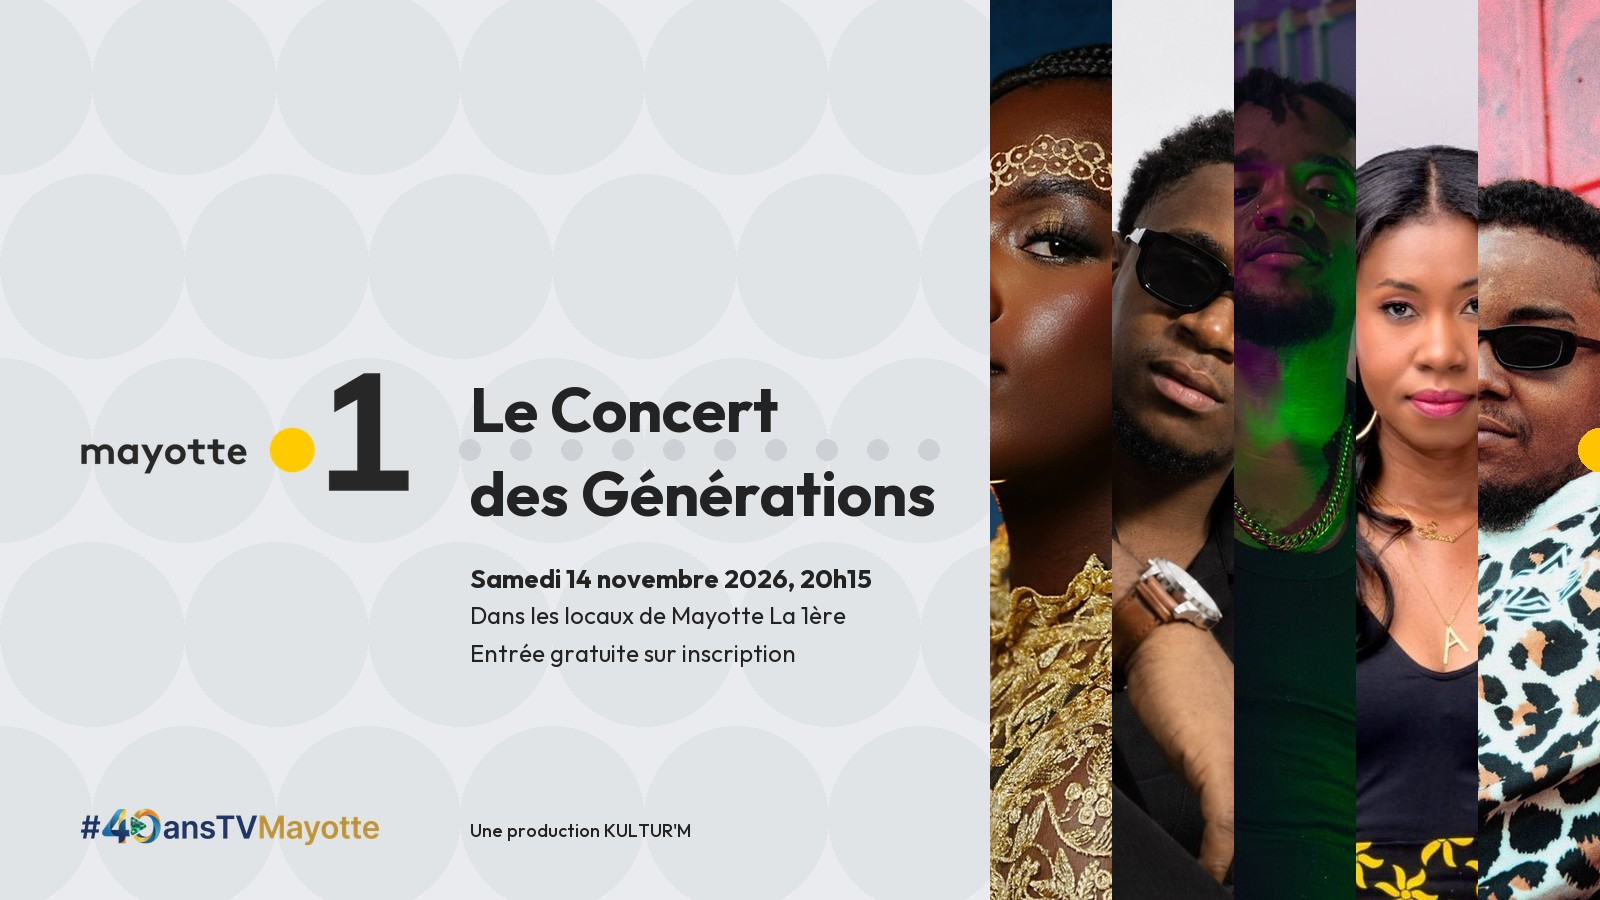
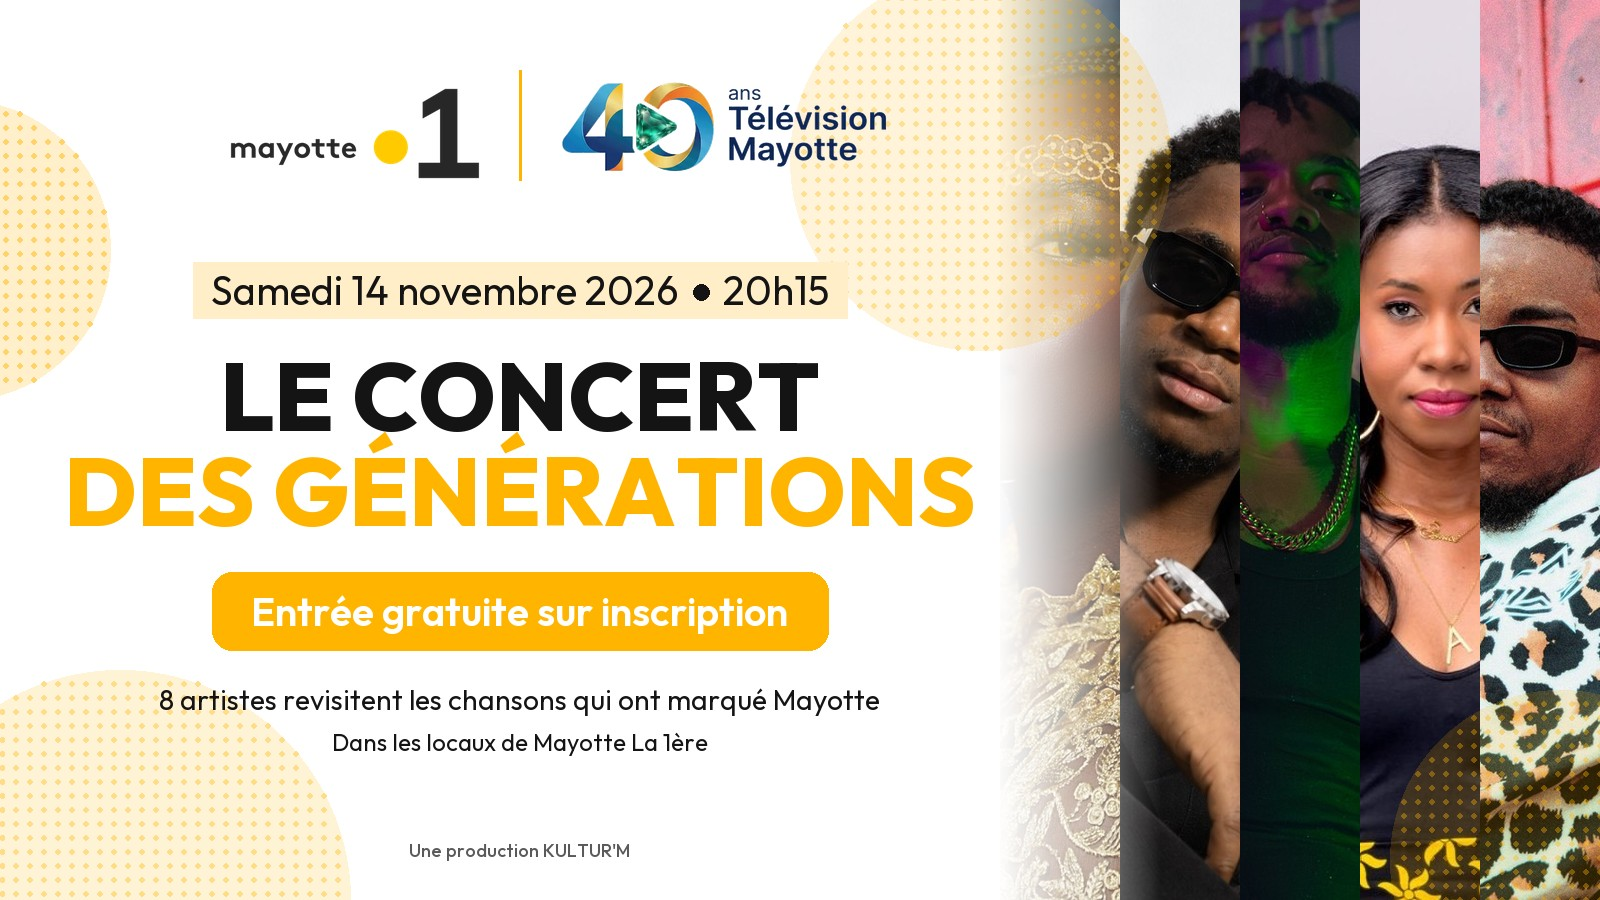
clients(mayotte-la-1ere): couverture du concert dans le style de l'affiche JPO

diff --git a/clients/mayotte-la-1ere/design/concert-couverture.py b/clients/mayotte-la-1ere/design/concert-couverture.py
@@ -1,45 +1,66 @@
 import sys, glob
-from PIL import Image, ImageDraw, ImageFont
+from PIL import Image, ImageDraw, ImageFont, ImageFilter, ImageChops
 S = sys.argv[1]; T = S + "/ftv/"; I = S + "/img/"
-W, H = 1600, 900; LINE = 450
-INK, GREY, LIGHT, YEL = (35, 35, 35), (205, 208, 212), (233, 235, 238), (255, 195, 0)
+W, H = 1600, 900
+INK, YEL, WHITE = (20, 20, 20), (255, 180, 0), (255, 255, 255)
 def font(s, w):
     f = ImageFont.truetype(T + "Outfit.ttf", s); f.set_variation_by_axes([w]); return f
-img = Image.new("RGB", (W, H), LIGHT); d = ImageDraw.Draw(img)
-# motif : frise de grands cercles, comme la bannière de la chaîne
-R = 92
-for row in range(-1, 6):
-    for col in range(-1, 12):
-        cx = col * 2 * R + (R if row % 2 else 0); cy = LINE + (row - 2) * 2 * R
-        d.ellipse((cx - R, cy - R, cx + R, cy + R), fill=(225, 228, 231))
-# photos d'artistes, bandes pleine hauteur à droite
-photos = sorted(glob.glob(I + "p10-*.jpg")); x0, bw = 990, 122
+img = Image.new("RGB", (W, H), WHITE)
+
+# photos des artistes à droite, fondues dans le blanc
+photos = sorted(glob.glob(I + "p10-*.jpg")); x0, bw = 1000, 120
+strip = Image.new("RGB", (W, H), WHITE)
 for k, p in enumerate(photos):
     ph = Image.open(p).convert("RGB"); r = max(bw / ph.width, H / ph.height)
     ph = ph.resize((int(ph.width * r) + 1, int(ph.height * r) + 1), Image.LANCZOS); cx = (ph.width - bw) // 2
-    img.paste(ph.crop((cx, 0, cx + bw, H)), (x0 + k * bw, 0))
-# logo de la chaîne : son point jaune posé sur la ligne de frise
+    strip.paste(ph.crop((cx, 0, cx + bw, H)), (x0 + k * bw, 0))
+mask = Image.new("L", (W, H), 0); dm = ImageDraw.Draw(mask)
+for x in range(W):
+    a = 0 if x < 990 else min(255, int(255 * ((x - 990) / 170) ** 1.3))
+    dm.line([(x, 0), (x, H)], fill=a)
+img = Image.composite(strip, img, mask)
+
+# cercles jaunes en trame de points (comme l'affiche de la JPO)
+def trame(cx, cy, R, alpha):
+    lay = Image.new("RGBA", (W, H), (0, 0, 0, 0)); dl = ImageDraw.Draw(lay)
+    dl.ellipse((cx - R, cy - R, cx + R, cy + R), fill=YEL + (int(alpha * 0.35),))
+    for y in range(cy - R, cy + R, 14):
+        for x in range(cx - R, cx + R, 14):
+            if (x - cx) ** 2 + (y - cy) ** 2 < R * R:
+                dl.ellipse((x - 2.5, y - 2.5, x + 2.5, y + 2.5), fill=YEL + (alpha,))
+    return lay
+for c in [(-40, 250, 150, 150), (980, 160, 190, 110), (120, 900, 230, 120), (1560, 860, 170, 120)]:
+    img.paste(trame(*c), (0, 0), trame(*c))
+d = ImageDraw.Draw(img)
+
+# logos en tête : la chaîne | les 40 ans
 logo = Image.open(T + "logo-mayotte-Dwjba.png").convert("RGBA"); logo = logo.crop(logo.getbbox())
-scale = 330 / logo.width; logo = logo.resize((330, int(logo.height * scale)), Image.LANCZOS)
-px = logo.load(); ys = [y for y in range(logo.height) for x in range(logo.width) if px[x, y][3] > 200 and px[x, y][0] > 200 and px[x, y][2] < 80]
-xs = [x for y in range(logo.height) for x in range(logo.width) if px[x, y][3] > 200 and px[x, y][0] > 200 and px[x, y][2] < 80]
-dot_y = sum(ys) / len(ys); dot_r = (max(xs) - min(xs)) / 2
-img.paste(logo, (80, int(LINE - dot_y)), logo)
-# frise de demi-points sur la ligne, jusqu'aux photos, et demi-point jaune au bord droit
-for x in range(470, 960, int(dot_r * 2.4)):
-    d.ellipse((x - dot_r / 2, LINE - dot_r / 2, x + dot_r / 2, LINE + dot_r / 2), fill=GREY)
-d.ellipse((W - dot_r, LINE - dot_r, W + dot_r, LINE + dot_r), fill=YEL)
-# titre aligné sur la ligne
-tf = font(62, 700)
-d.text((470, LINE - 18), "Le Concert", font=tf, fill=INK, anchor="ls")
-d.text((470, LINE + 18), "des Générations", font=tf, fill=INK, anchor="lt")
-y = LINE + 112
-for t, f in [("Samedi 14 novembre 2026, 20h15", font(26, 700)), ("Dans les locaux de Mayotte La 1ère", font(24, 400)),
-             ("Entrée gratuite sur inscription", font(24, 400))]:
-    d.text((470, y), t, font=f, fill=INK); y += 38
-# signature de la campagne et production, en pied
-c40 = Image.open(I + "p01-2-FormXob.a607754cdd96f8efd0a2886a50802346.png").convert("RGBA"); c40 = c40.crop(c40.getbbox()); c40.thumbnail((300, 46), Image.LANCZOS)
-img.paste(c40, (80, H - 92), c40)
-d.text((470, H - 70), "Une production KULTUR'M", font=font(18, 500), fill=INK, anchor="lm")
-img.save(S + "/concert-couverture-ftv.jpg", quality=90)
-img.resize((1200, 675), Image.LANCZOS).save(S + "/concert-apercu-ftv.jpg", quality=85); print("ok", dot_y, dot_r)
+logo = logo.resize((250, int(logo.height * 250 / logo.width)), Image.LANCZOS)
+ban = Image.open(T + "banniere-cover-40-BcRcc.webp").convert("RGB").crop((400, 158, 1228, 392))
+a = ban.convert("L").point(lambda v: 0 if v > 205 else (255 if v < 170 else int((205 - v) * 255 / 35)))
+sat = ImageChops.subtract(ban.convert("HSV").split()[1], Image.new("L", ban.size, 25)).point(lambda v: 255 if v > 0 else 0)
+ban.putalpha(ImageChops.lighter(a, sat)); ban = ban.resize((330, int(ban.height * 330 / ban.width)), Image.LANCZOS)
+top = 70
+img.paste(logo, (230, top + 18), logo)
+d.line([(520, top), (520, top + 110)], fill=YEL, width=3)
+img.paste(ban, (560, top + 10), ban)
+
+# date surlignée, titre, bouton, accroche
+cx = 520
+df = font(40, 400); t1, t2 = "Samedi 14 novembre 2026", "20h15"
+w1, w2, gap = d.textlength(t1, font=df), d.textlength(t2, font=df), 44
+tw = w1 + gap + w2; xl = cx - tw / 2
+d.rectangle((xl - 18, 262, xl + tw + 18, 318), fill=(255, 238, 200))
+d.text((xl, 290), t1, font=df, fill=INK, anchor="lm")
+d.ellipse((xl + w1 + gap / 2 - 8, 284, xl + w1 + gap / 2 + 8, 300), fill=INK)
+d.text((xl + w1 + gap, 290), t2, font=df, fill=INK, anchor="lm")
+d.text((cx, 395), "LE CONCERT", font=font(96, 800), fill=INK, anchor="mm")
+d.text((cx, 490), "DES GÉNÉRATIONS", font=font(96, 800), fill=YEL, anchor="mm")
+bf = font(40, 600); b = "Entrée gratuite sur inscription"; bw2 = d.textlength(b, font=bf)
+d.rounded_rectangle((cx - bw2 / 2 - 40, 572, cx + bw2 / 2 + 40, 650), radius=20, fill=YEL)
+d.text((cx, 611), b, font=bf, fill=WHITE, anchor="mm")
+d.text((cx, 700), "8 artistes revisitent les chansons qui ont marqué Mayotte", font=font(28, 400), fill=INK, anchor="mm")
+d.text((cx, 742), "Dans les locaux de Mayotte La 1ère", font=font(24, 400), fill=INK, anchor="mm")
+d.text((cx, 850), "Une production KULTUR'M", font=font(18, 500), fill=(90, 90, 90), anchor="mm")
+img.save(S + "/concert-couverture-jpo.jpg", quality=90)
+img.resize((1200, 675), Image.LANCZOS).save(S + "/concert-apercu-jpo.jpg", quality=85); print("ok")
